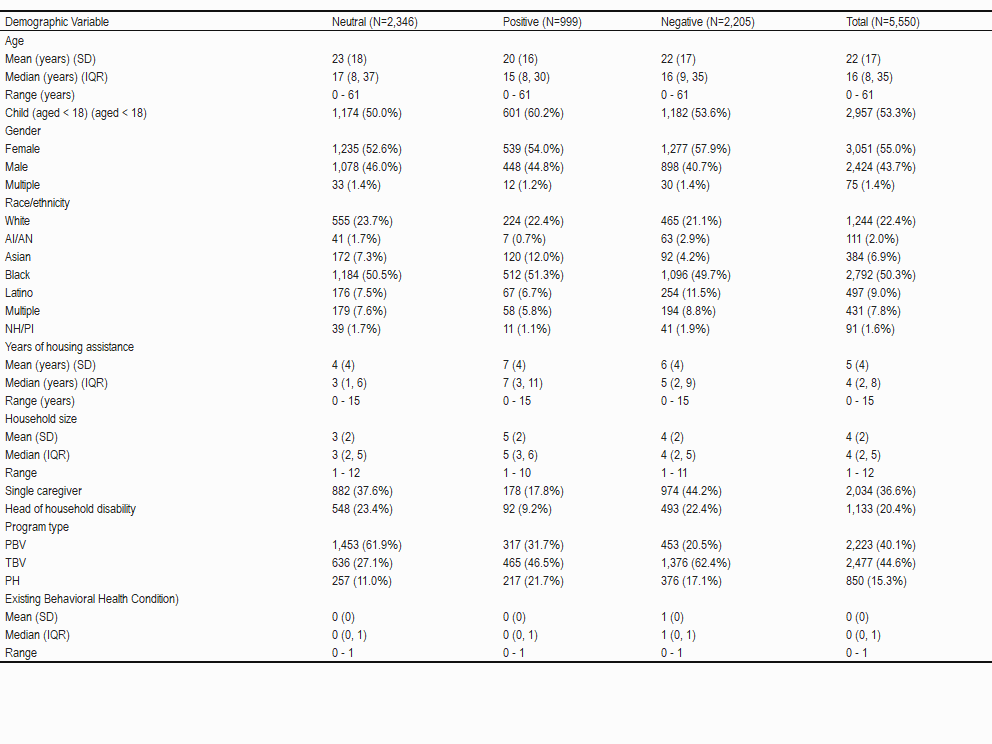
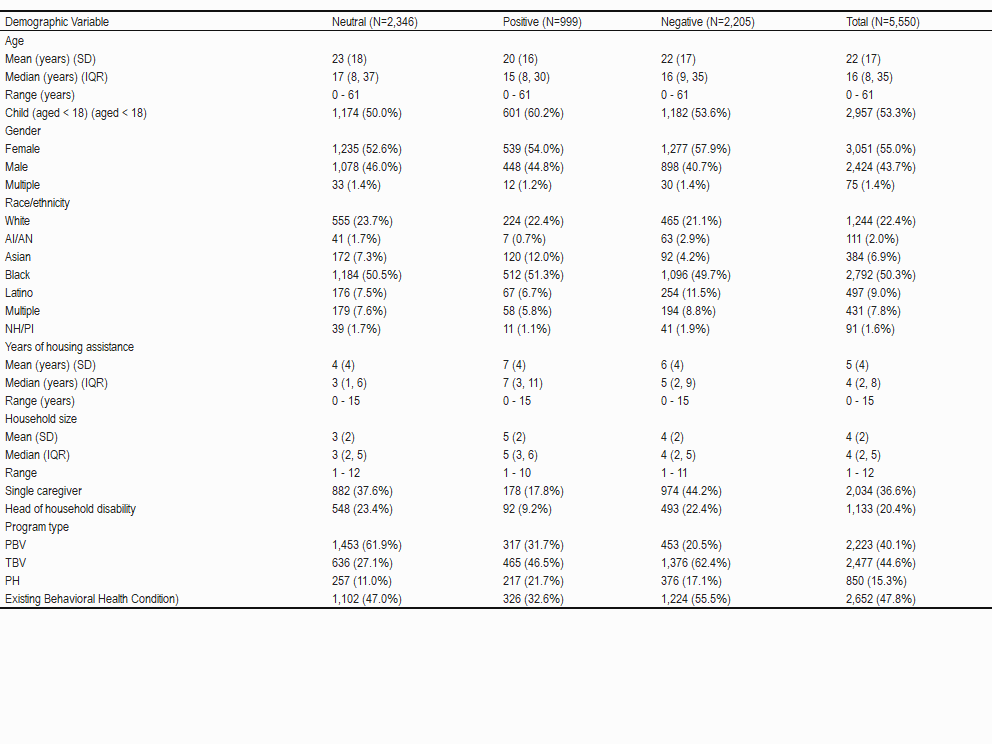
Mcaid, new tables

diff --git a/analyses/behavioral/table1a.html b/analyses/behavioral/table1a.html
@@ -510,31 +510,10 @@ border: 0;
   </tr>
   <tr>
    <td style="text-align:left;"> Existing Behavioral Health Condition) </td>
-   <td style="text-align:left;">  </td>
-   <td style="text-align:left;">  </td>
-   <td style="text-align:left;">  </td>
-   <td style="text-align:left;">  </td>
-  </tr>
-  <tr>
-   <td style="text-align:left;"> Mean (SD) </td>
-   <td style="text-align:left;"> 0 (0) </td>
-   <td style="text-align:left;"> 0 (0) </td>
-   <td style="text-align:left;"> 1 (0) </td>
-   <td style="text-align:left;"> 0 (0) </td>
-  </tr>
-  <tr>
-   <td style="text-align:left;"> Median (IQR) </td>
-   <td style="text-align:left;"> 0 (0, 1) </td>
-   <td style="text-align:left;"> 0 (0, 1) </td>
-   <td style="text-align:left;"> 1 (0, 1) </td>
-   <td style="text-align:left;"> 0 (0, 1) </td>
-  </tr>
-  <tr>
-   <td style="text-align:left;"> Range </td>
-   <td style="text-align:left;"> 0 - 1 </td>
-   <td style="text-align:left;"> 0 - 1 </td>
-   <td style="text-align:left;"> 0 - 1 </td>
-   <td style="text-align:left;"> 0 - 1 </td>
+   <td style="text-align:left;"> 1,102 (47.0%) </td>
+   <td style="text-align:left;"> 326 (32.6%) </td>
+   <td style="text-align:left;"> 1,224 (55.5%) </td>
+   <td style="text-align:left;"> 2,652 (47.8%) </td>
   </tr>
 </tbody>
 </table>
